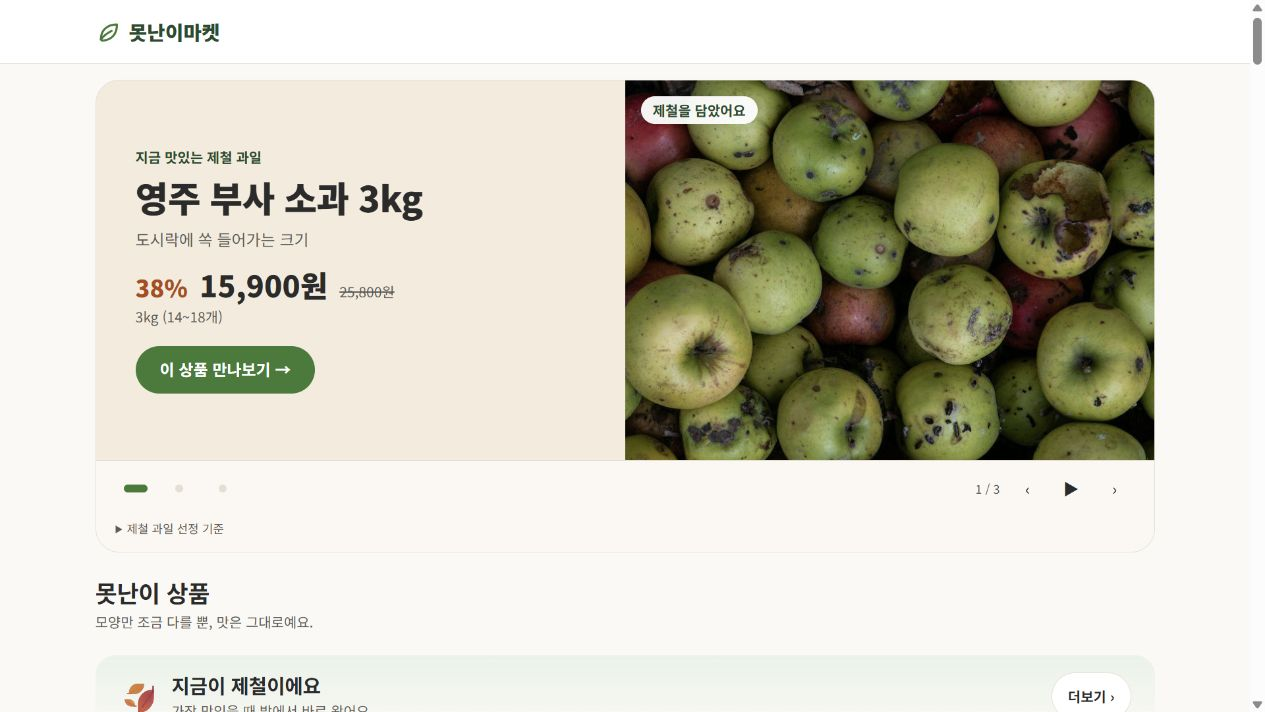
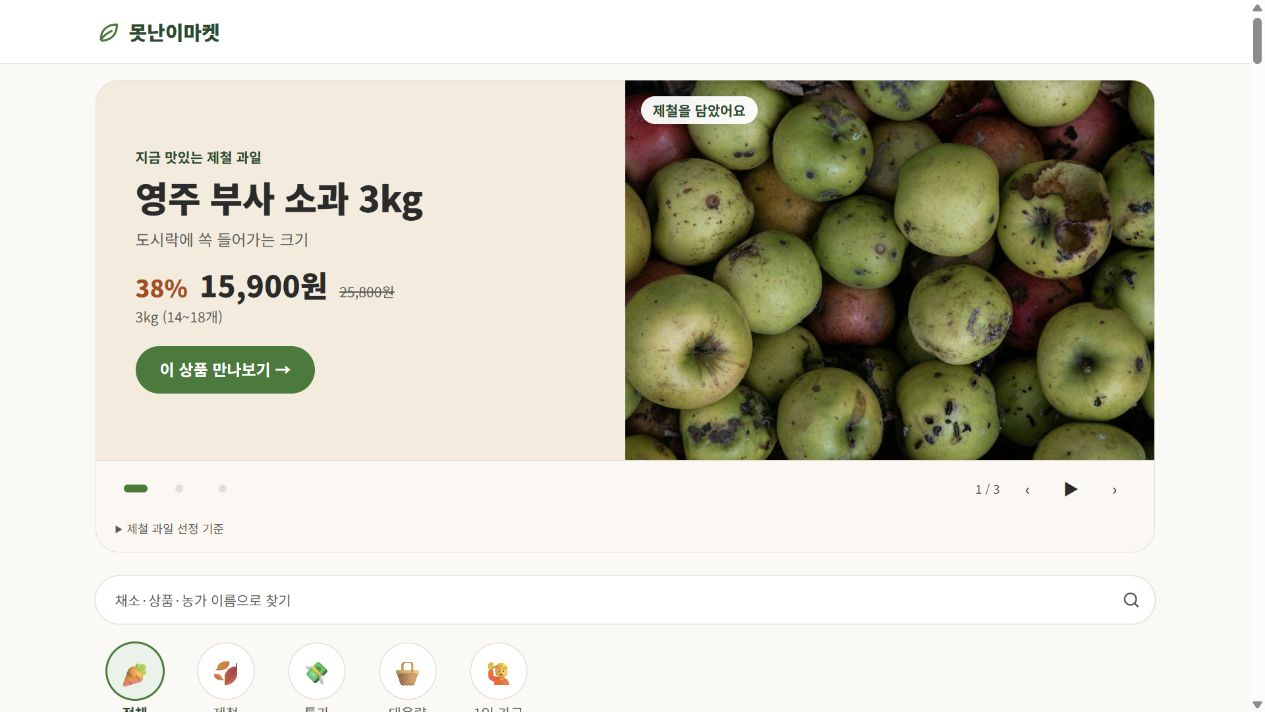
docs: record integrated checks and refreshed market screenshots

diff --git a/docs/market-motion-recommendations.md b/docs/market-motion-recommendations.md
@@ -30,4 +30,6 @@
 
 ## 확인과 남은 범위
 
-로컬 시연 모드에서 PC·모바일(360px/390px) 배치, 자동 재생/정지, 직접 넘기기 및 상품 상세 이동을 확인했습니다. 테스트 25개·lint·typecheck·format:check·build가 통과했습니다. 실제 팀 Supabase 연결, 배포 환경, 실제 휴대폰 터치 검수는 별도로 남아 있습니다. 상품 제철 정보는 운영자가 갱신해야 합니다. 캡처는 `docs/screenshots`에 기록합니다.
+로컬 시연 모드에서 PC·모바일(360px/390px) 배치, 자동 재생/정지, 직접 넘기기 및 상품 상세 이동을 확인했습니다. 최신 main(상품 검색·마이페이지·환불)을 통합한 후 테스트 28개·lint·typecheck·format:check·build가 통과했습니다. 실제 팀 Supabase 연결, 배포 환경, 실제 휴대폰 터치 검수는 별도로 남아 있습니다. 상품 제철 정보는 운영자가 갱신해야 합니다. 캡처는 `docs/screenshots`에 기록합니다.
+
+최신 팀 상품 검색창·코너 메뉴를 함께 유지했고 검색어가 있으면 배너를 숨깁니다. [PR #19](https://github.com/KANT-2/group_6_vegetable_project/pull/19)에서 검토할 수 있습니다.
